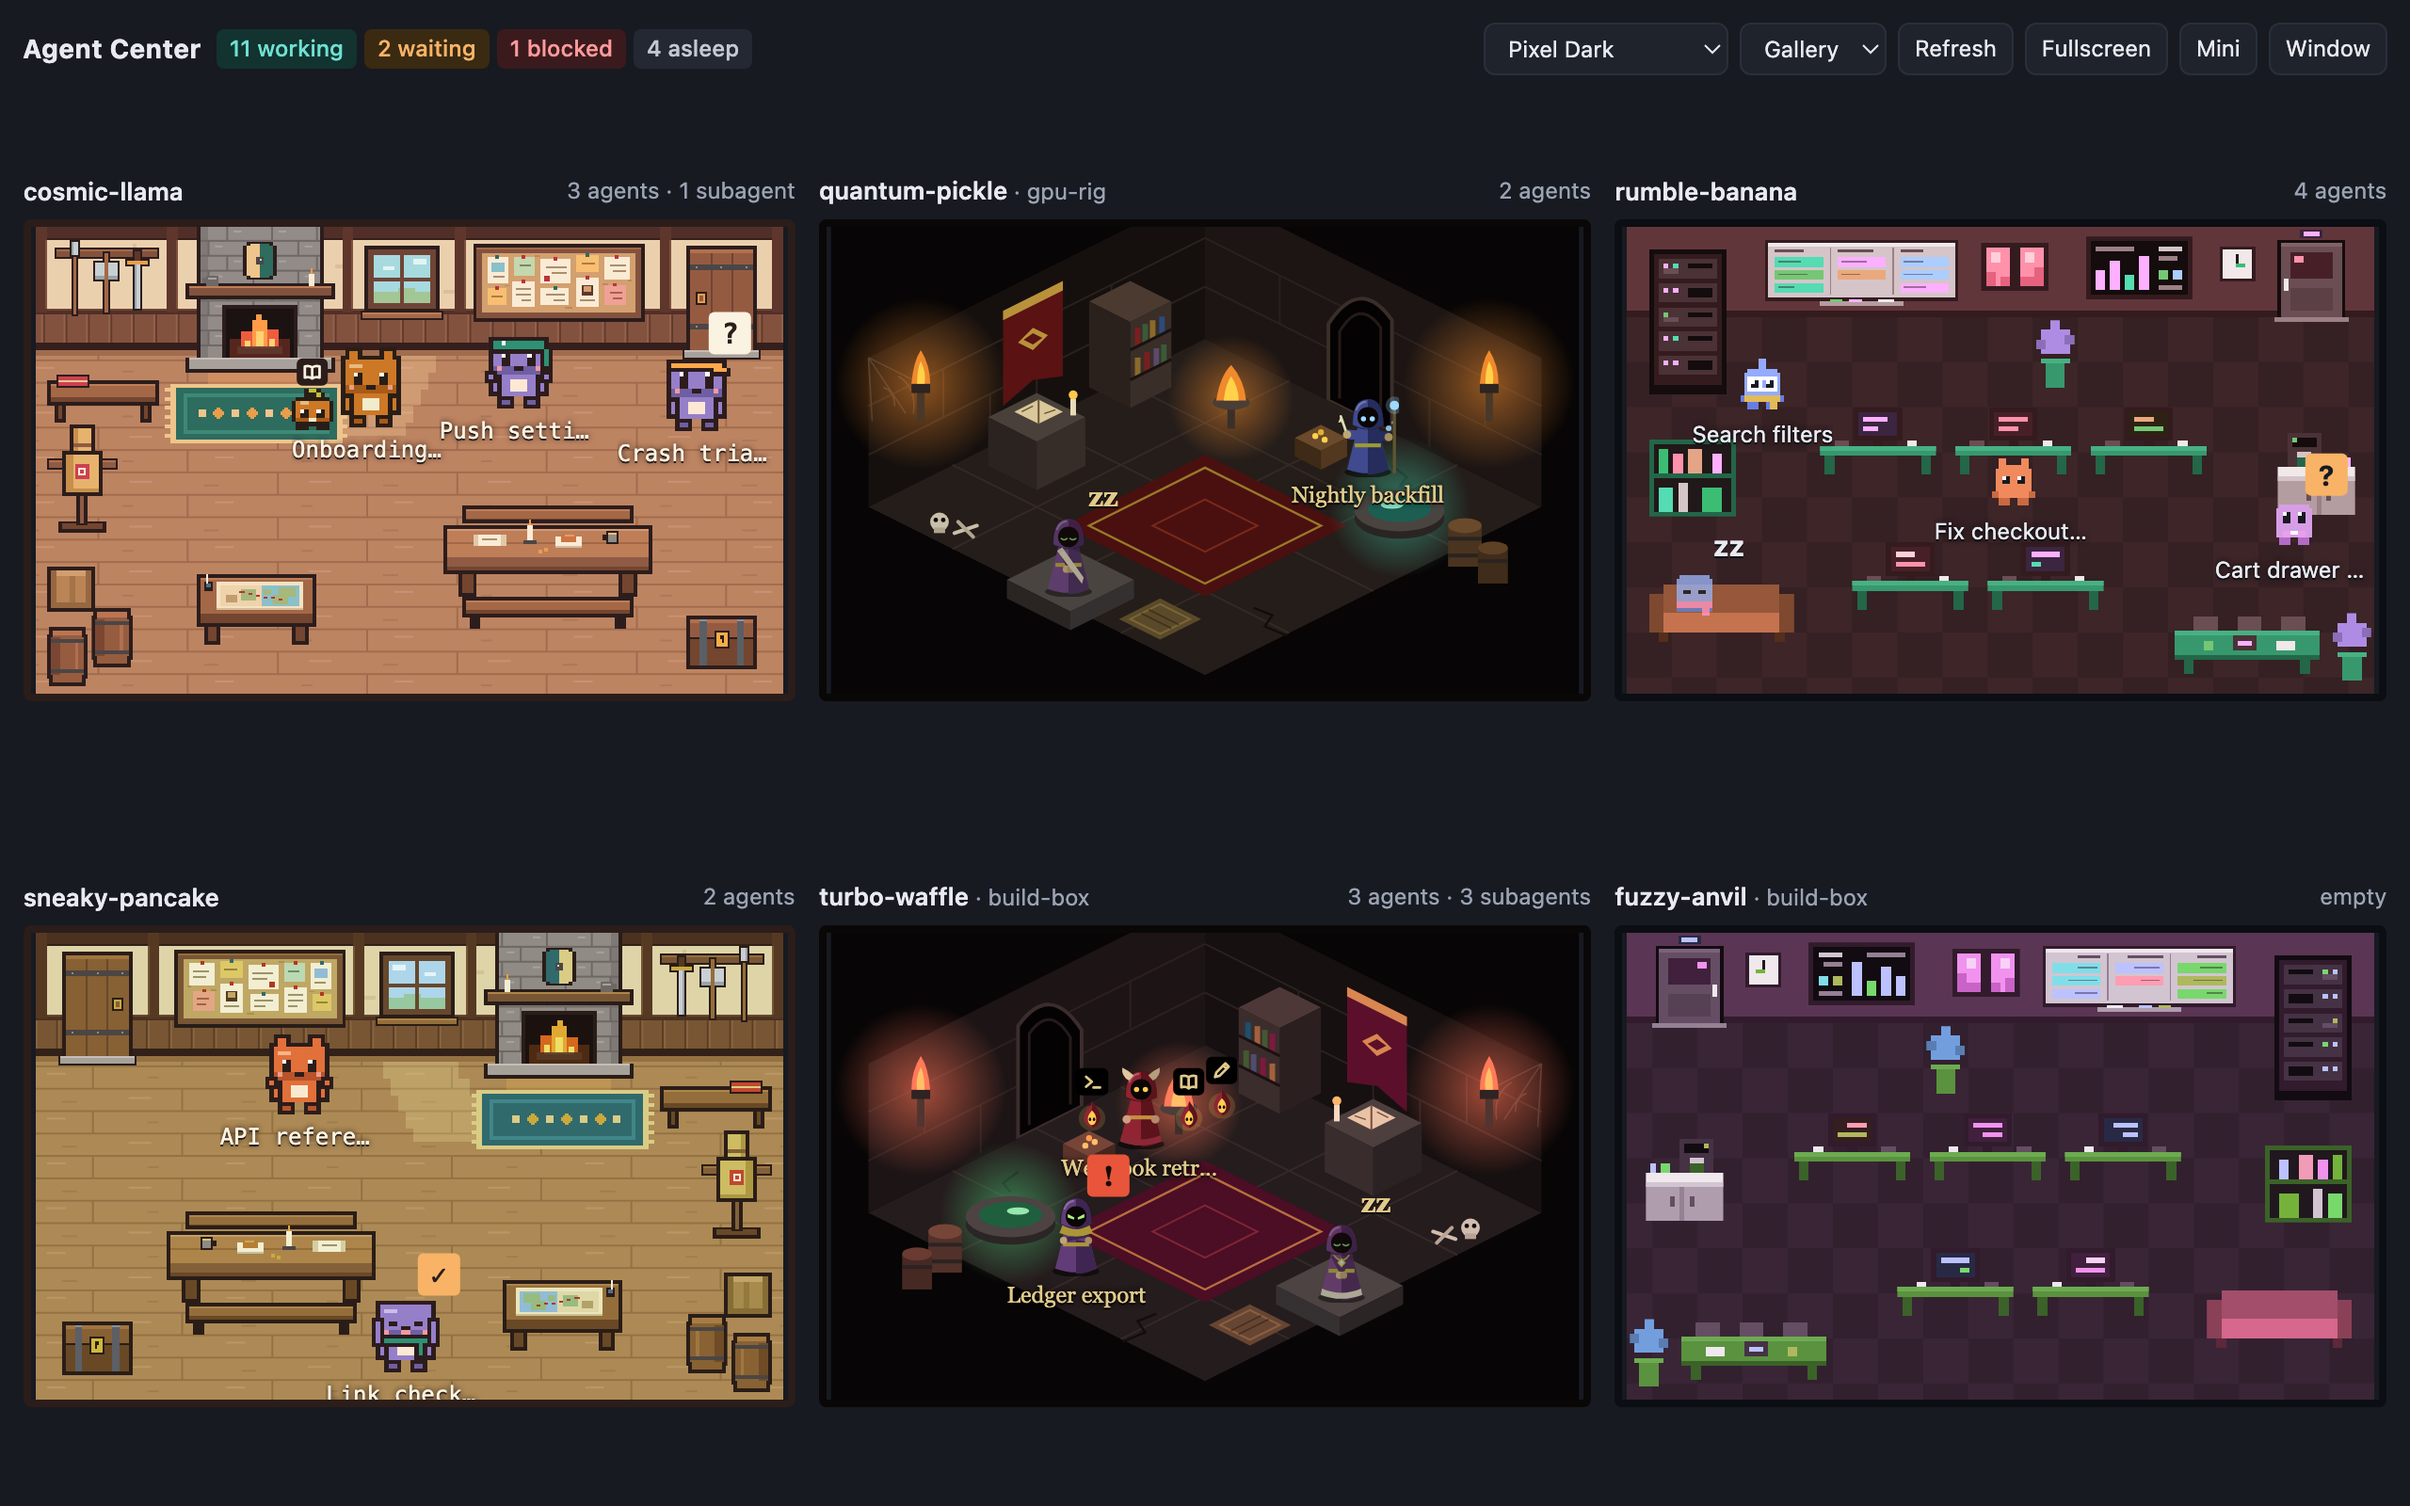
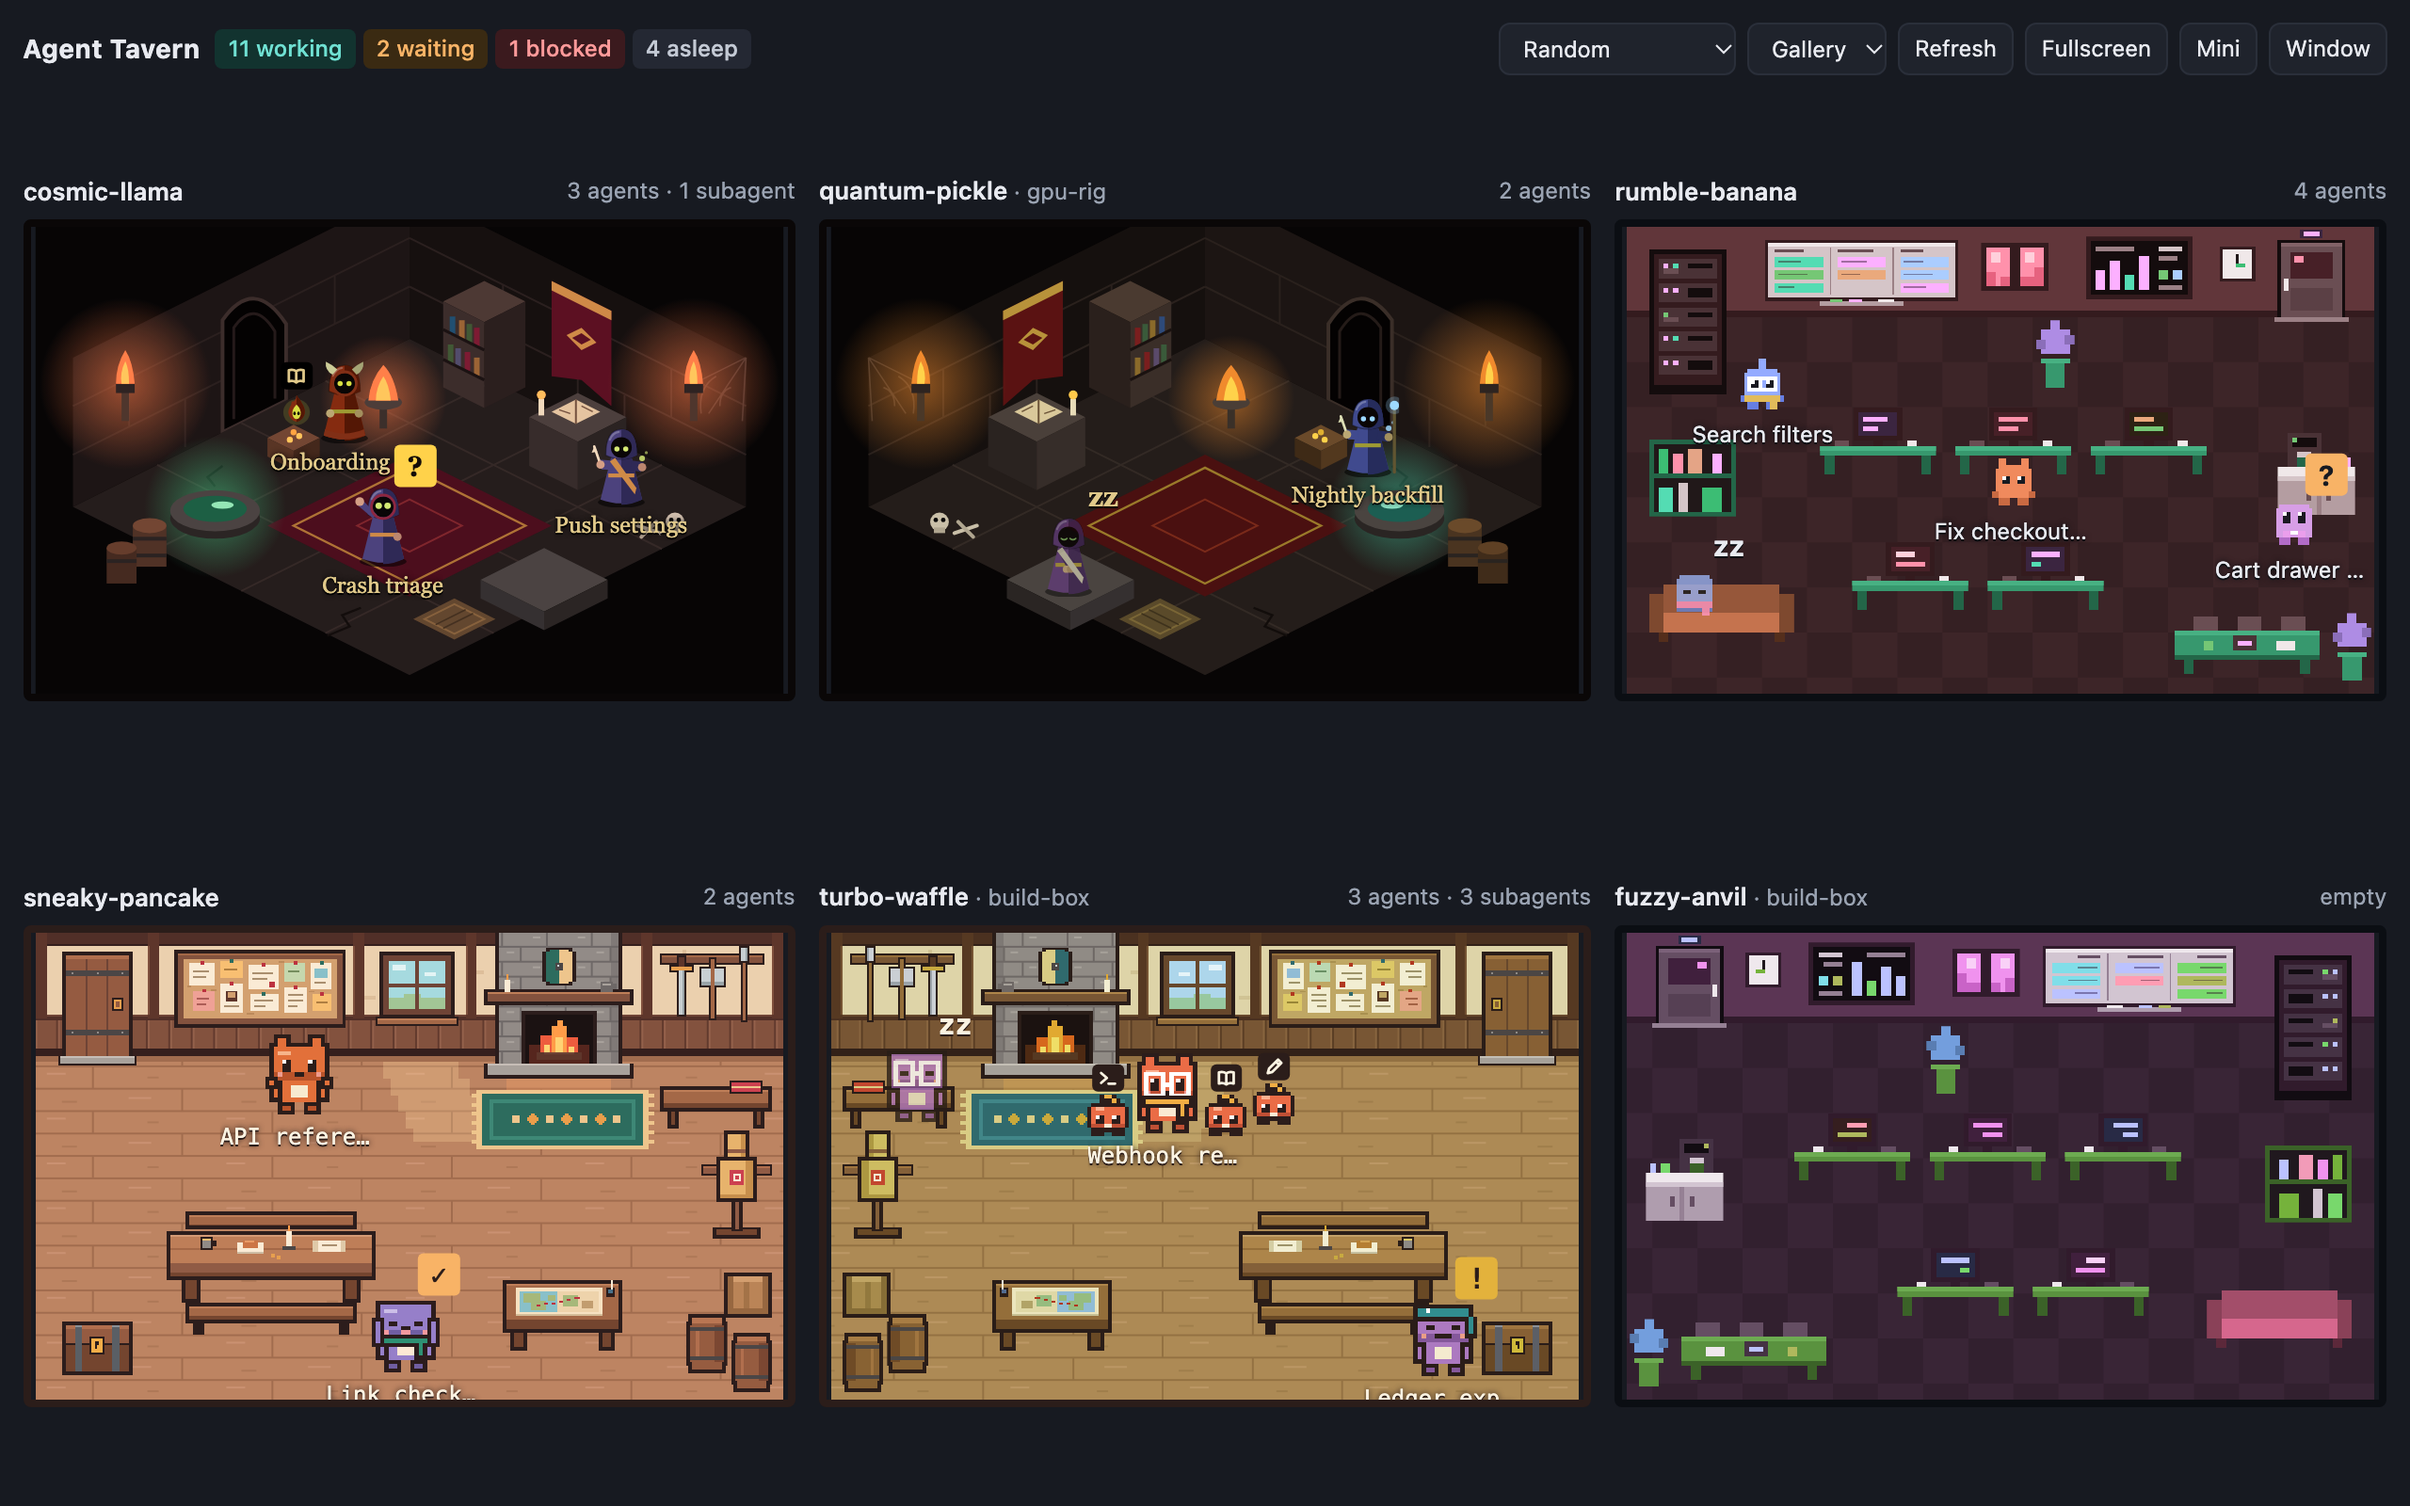
docs!: rename the plugin's display name to Agent Tavern
The name shown in Orca, in the panel and in the docs becomes Agent
Tavern, with the auto-battler in the tagline. The plugin id, the
repository, the storage keys and the save file format keep
agent-center, so settings and saved games carry over. Every screenshot
is retaken because the header shows the name.

diff --git a/ui/engine/header.js b/ui/engine/header.js
@@ -52,7 +52,7 @@ export function createHeader({ transport, extraActions = [], onViewChange, onRef
   // The title and the counters share a row that never wraps, so a control put at its end stays
   // on the first line whatever the tools do. Without such a control the row lays out as before.
   const titleRow = el('div', 'ac-title-row')
-  titleRow.append(el('h1', 'ac-title', 'Agent Center'), counts)
+  titleRow.append(el('h1', 'ac-title', 'Agent Tavern'), counts)
   element.append(titleRow, tools)
 
   function addChip(count, label, tone) {

diff --git a/ui/boot/orca.js b/ui/boot/orca.js
@@ -39,7 +39,7 @@ const actions = [
     onClick: async () => {
       const { webUrl } = await transport.getState()
       if (!webUrl) {
-        await orca.host.call('notifications.show', { title: 'Agent Center', body: 'The external view is turned off.' }).catch(() => {})
+        await orca.host.call('notifications.show', { title: 'Agent Tavern', body: 'The external view is turned off.' }).catch(() => {})
         return
       }
       await orca.shell.openExternal(webUrl)

diff --git a/ui/engine/labels.js b/ui/engine/labels.js
@@ -150,7 +150,7 @@ export function gameUnavailable(status) {
   if (status === 'newer-save') {
     return {
       title: 'The game was saved by a newer version',
-      lines: ['Update Agent Center to carry on. Nothing in the save was changed.', rooms]
+      lines: ['Update Agent Tavern to carry on. Nothing in the save was changed.', rooms]
     }
   }
   return { title: 'The game is not running', lines: ['Game mode is on, but the game cannot run now.', rooms] }

diff --git a/ui/web.html b/ui/web.html
@@ -3,7 +3,7 @@
   <head>
     <meta charset="utf-8" />
     <meta name="viewport" content="width=device-width, initial-scale=1" />
-    <title>Agent Center</title>
+    <title>Agent Tavern</title>
     <link rel="stylesheet" href="/ui/stage.css" />
     <link rel="stylesheet" href="/ui/game.css" />
   </head>

diff --git a/ui/panel.html b/ui/panel.html
@@ -3,7 +3,7 @@
   <head>
     <meta charset="utf-8" />
     <meta name="viewport" content="width=device-width, initial-scale=1" />
-    <title>Agent Center</title>
+    <title>Agent Tavern</title>
     <link rel="stylesheet" href="./stage.css" />
     <link rel="stylesheet" href="./game.css" />
   </head>

diff --git a/ui/tab.html b/ui/tab.html
@@ -3,7 +3,7 @@
   <head>
     <meta charset="utf-8" />
     <meta name="viewport" content="width=device-width, initial-scale=1" />
-    <title>Agent Center</title>
+    <title>Agent Tavern</title>
     <link rel="stylesheet" href="./stage.css" />
     <link rel="stylesheet" href="./game.css" />
   </head>

diff --git a/README.md b/README.md
@@ -1,9 +1,12 @@
 <div align="center">
 
-# Agent Center & Auto-Battler
+# Agent Tavern
 
-**A live room for every project in [Orca](https://github.com/stablyai/orca), where your coding
-agents are characters acting out their work, and an idle auto-battler that runs on what they do.**
+### Where your Orca agents hang out, and an auto-battler that runs on their work
+
+**A tavern for every project in [Orca](https://github.com/stablyai/orca): each coding agent is a
+character acting out what it is doing right now. Leave them be, or turn on game mode and the
+party heads out to fight.**
 
 ![Six project rooms in game mode: each room's party of agents fights its monster](docs/screenshots/game-gallery.png)
 
@@ -108,7 +111,7 @@ the game: no clicking is needed, and nothing is lost by ignoring it for a day.
 
 ### Turning it on
 
-Open Orca's Settings, go to Plugins, then Agent Center, and turn on **Game mode**. The panel
+Open Orca's Settings, go to Plugins, then Agent Tavern, and turn on **Game mode**. The panel
 gains three tabs: **Rooms**, **Arsenal** (chest, party and camp) and **Skills**. The cog in the
 panel's header opens the game's own settings: worlds, auto-spend and the save file.
 
@@ -184,8 +187,8 @@ listed at the bottom, one click away.
 
 | Place | How to open it |
 |---|---|
-| Orca's sidebar | the **Agent Center** panel; **Collapse** leaves only the counters |
-| A tab, next to the terminals | the tabs' **+** menu, **Agent Center** |
+| Orca's sidebar | the **Agent Tavern** panel; **Collapse** leaves only the counters |
+| A tab, next to the terminals | the tabs' **+** menu, **Agent Tavern** |
 | Status bar | the item with the agent count shows or hides the sidebar |
 | Detached window | **Pop out** opens the external view in your browser; there, **Window** |
 | Fullscreen on another monitor | in the external view, **Fullscreen** |
@@ -207,7 +210,7 @@ names and change the themes. [SECURITY.md](SECURITY.md) lists everything the pag
 
 ## Install
 
-Find **Agent Center & Auto-Battler** in Orca's plugin directory, or open its page:
+Find **Agent Tavern** in Orca's plugin directory, or open its page:
 <https://orca.dev/plugins/klausbegnis/agent-center>.
 
 To run it from a checkout instead:

diff --git a/CONTRIBUTING.md b/CONTRIBUTING.md
@@ -1,4 +1,4 @@
-# Contributing to Agent Center
+# Contributing to Agent Tavern
 
 Thanks for wanting to help. This page gets you from a clone to a merged pull request. For how
 issues are triaged and pull requests are merged, see [docs/MAINTAINING.md](docs/MAINTAINING.md).

diff --git a/docs/MAINTAINING.md b/docs/MAINTAINING.md
@@ -1,4 +1,4 @@
-# Maintaining Agent Center
+# Maintaining Agent Tavern
 
 How issues are triaged, how pull requests are reviewed and merged, and how releases are cut.
 Contributors do not need this page; [CONTRIBUTING.md](../CONTRIBUTING.md) is theirs.

diff --git a/AGENTS.md b/AGENTS.md
@@ -1,4 +1,4 @@
-# Agent Center
+# Agent Tavern
 
 An Orca plugin: one room per project, where each agent is a character acting out what it is
 doing. Plain JavaScript, no build step, no runtime dependencies.
